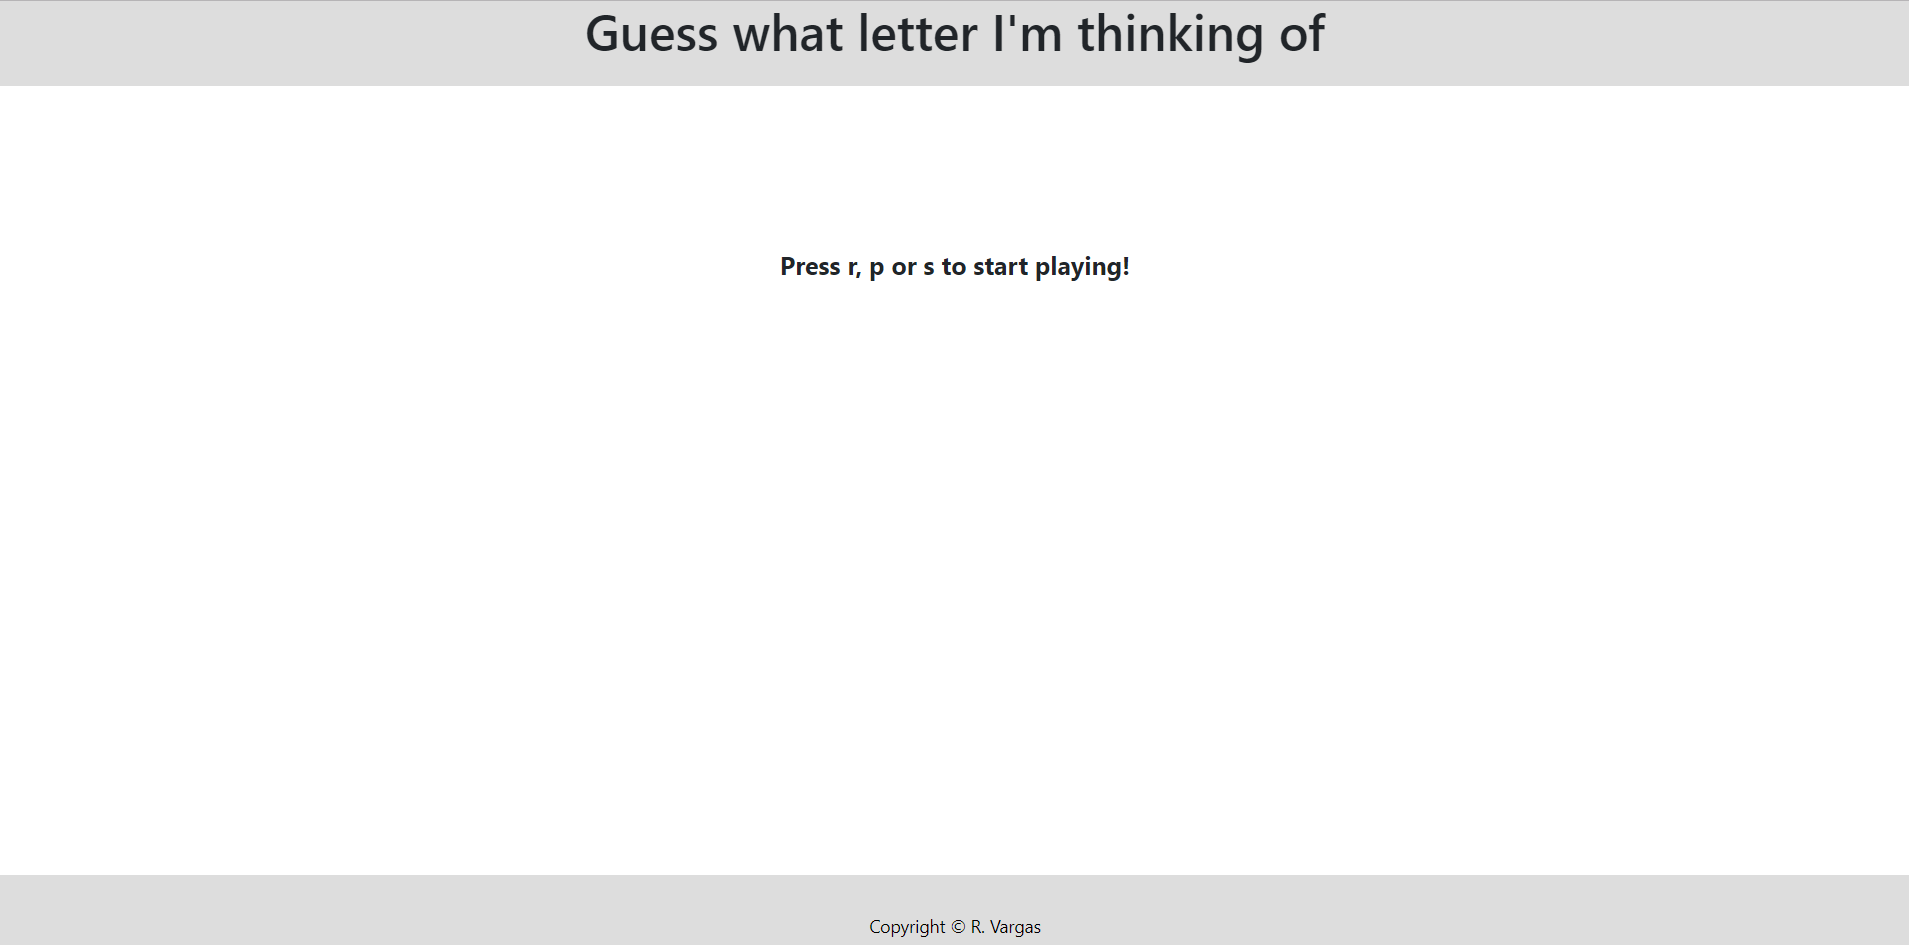
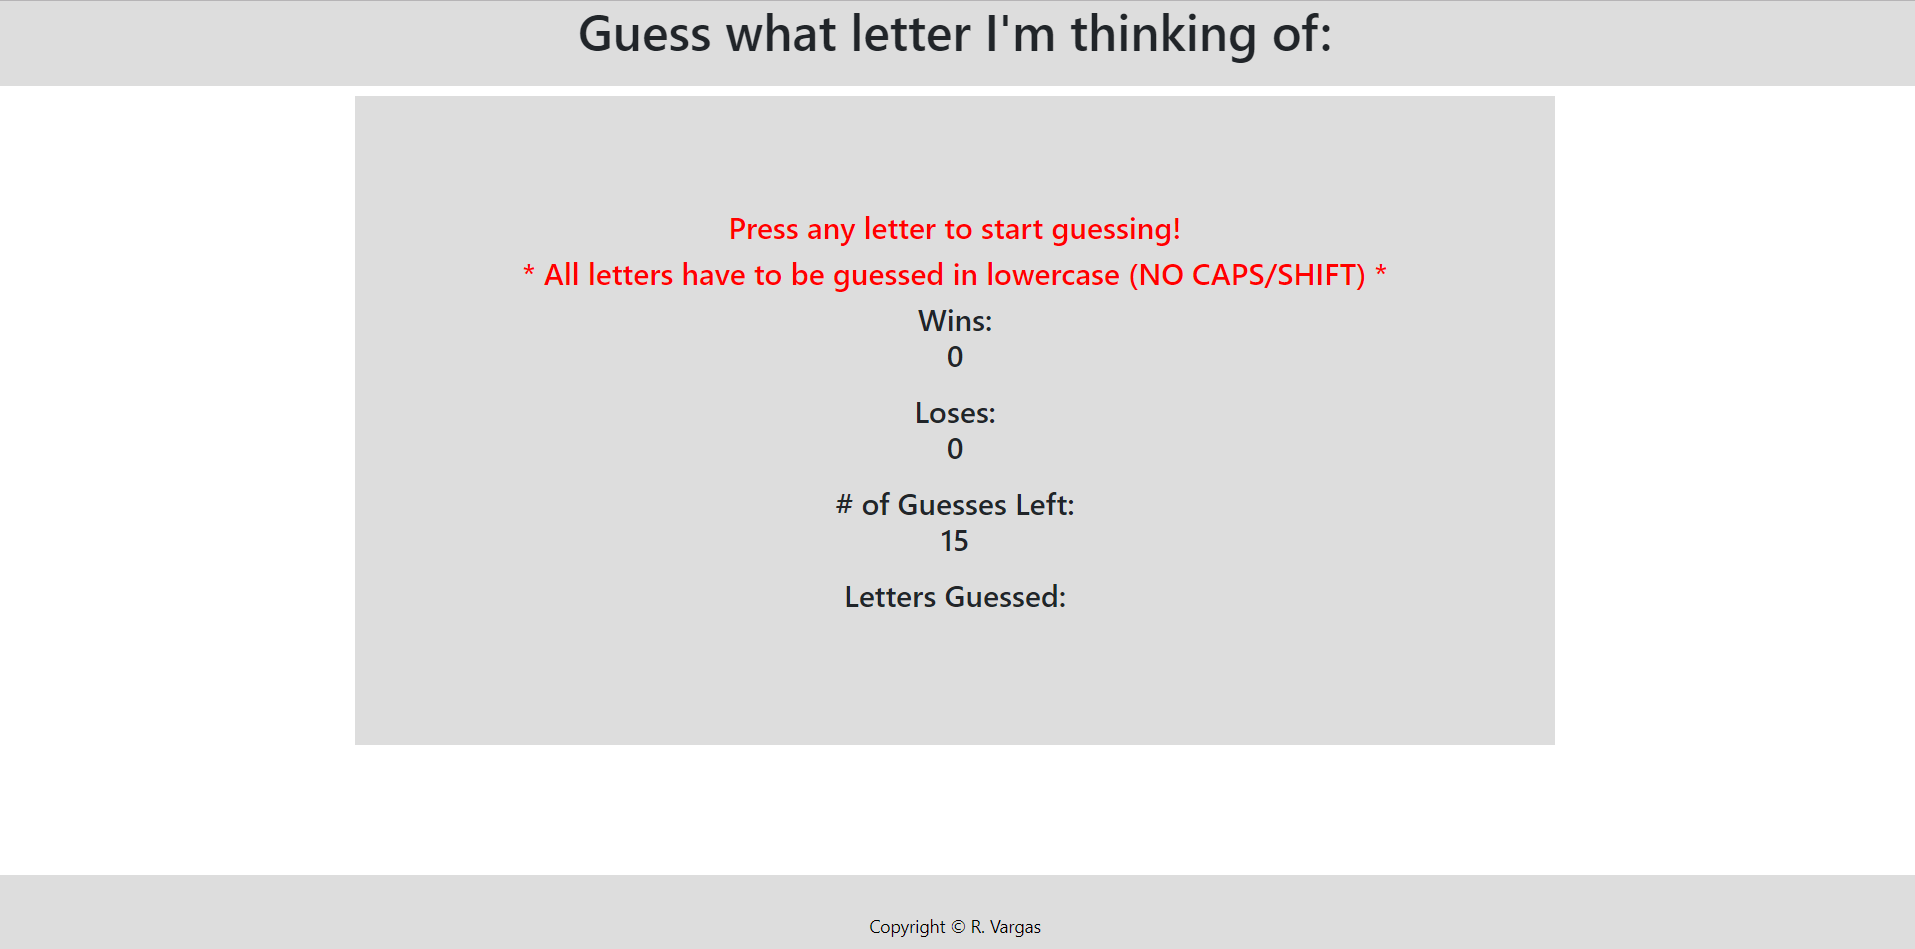
Final Game

diff --git a/index.html b/index.html
@@ -1,54 +1,59 @@
 <!DOCTYPE html>
-<html>
+<html lang="en-us">
 
-    <head>
-        <meta charset="UTF-8">
-        <title>RV-Psychic-Game</title>
-        <link href="assets/css/style.css" rel="stylesheet" type="text/css">
-        <link rel="stylesheet" href="https://stackpath.bootstrapcdn.com/bootstrap/4.1.3/css/bootstrap.min.css" integrity="sha384-MCw98/SFnGE8fJT3GXwEOngsV7Zt27NXFoaoApmYm81iuXoPkFOJwJ8ERdknLPMO" crossorigin="anonymous">
-    </head>
+<head>
+    <meta charset="UTF-8">
+    <title>RV-Psychic-Game</title>
+    <link href="assets/css/style.css" rel="stylesheet" type="text/css">
+    <link rel="stylesheet" href="https://stackpath.bootstrapcdn.com/bootstrap/4.1.3/css/bootstrap.min.css" integrity="sha384-MCw98/SFnGE8fJT3GXwEOngsV7Zt27NXFoaoApmYm81iuXoPkFOJwJ8ERdknLPMO"
+        crossorigin="anonymous">
+</head>
 
-    <body>
-        <!-- Place direction text,
+<body>
+    <!-- Place direction text,
         Need the user to make a choice,
         Record wins, losses and ties on both sides (between user and computer) -->
-        <h1>Guess what letter I'm thinking of:</h1>
+    <h1>Guess what letter I'm thinking of:</h1>
 
-        <div id="main-container" class="container">
+    <div id="main-container" class="container">
 
-            <!-- Rules of the Game-->
+        <!-- Rules of the Game-->
+
+        <div id="instructions" class=instruct>
             <h4>Press any letter to start guessing!</h4>
             <h4>* All letters have to be guessed in lowercase (NO CAPS/SHIFT) *</h4>
-
-            <h4>Wins:
-                <p id="wins"></p>
-            </h4>
-            <h4>Loses:
-                <p id="loses"></p>
-            </h4>
-            <h4># of Guesses Left:
-                <p id="numberOfGuessesLeft"></p>
-            </h4>
-            <h4>Letters Guessed:
-                <p id="lettersAlreadyGuessed"></p>
-            </h4>
-            
         </div>
-        
-        <!-- JavaScript Reference -->
-        <script type="text/javascript" src="assets/javascript/game.js"></script>
 
-        <!-- Footer -->
-        <footer>
-            <div class="container">
-                <div class="row justify-content-md-center">
-                    <div class="col-md-auto">
+        <!-- Record of Game-->
+        <h4>Wins:
+            <p id="wins">#</p>
+        </h4>
+        <h4>Loses:
+            <p id="loses">#</p>
+        </h4>
+        <h4># of Guesses Left:
+            <p id="numberOfGuessesLeft">#</p>
+        </h4>
+        <h4>Letters Guessed:
+            <p id="lettersAlreadyGuessed">#</p>
+        </h4>
+
+    </div>
+
+    <!-- JavaScript Reference -->
+    <script type="text/javascript" src="assets/javascript/game.js"></script>
+
+    <!-- Footer -->
+    <footer>
+        <div class="container">
+            <div class="row justify-content-md-center">
+                <div class="col-md-auto">
                     Copyright © R. Vargas
-                    </div>
                 </div>
             </div>
-        </footer>
-        
-    </body>
+        </div>
+    </footer>
+
+</body>
 
 </html>

diff --git a/assets/javascript/game.js b/assets/javascript/game.js
@@ -1,50 +1,49 @@
 
 // Variable, that houses an array, containing the alphabet.
-var letters = ['a', 'b', 'c', 'd', 'e', 'f', 'g', 'h', 'i', 'j', 'k', 'l', 'm','n', 'o', 'p', 
-'q', 'r', 's', 't', 'u', 'v', 'w', 'x', 'y', 'z'];
+var letters = ['a', 'b', 'c', 'd', 'e', 'f', 'g', 'h', 'i', 'j', 'k', 'l', 'm', 'n', 'o', 'p',
+  'q', 'r', 's', 't', 'u', 'v', 'w', 'x', 'y', 'z'];
 // Variables that record the wins, losses, # of guesses left, and which letter the user chose.
 var wins = 0;
 var loses = 0;
+// wins and loses have to start at zero, if beginning a new game.
 var guessesLeft
-var guessedLetters 
+var guessedLetters
 // Established computer choise, what the user will have to guess.
 var computerChoice
 
 // onkeyup will record any pressed key the user makes.
-document.onkeyup = function(event) {
+document.onkeyup = function (event) {
   var userGuess = event.key;
   if (userGuess === computerChoice) {
-    win();
+    userwin();
     //  Subtracts each guess if the user does not make correct guess.
   } else if (guessesLeft - 1 === 0) {
-    lost();
+    userlost();
   } else {
-    fail(userGuess);
+    userfail(userGuess);
   }
 
   display();
 }
 
-resetGame();
-display();
-
 // Functions that will add onto the wins and losses counter. Will also reset game if numbers run out.
-function win() {
+function userwin() {
   wins++;
   resetGame();
 }
 
-function lost() {
+function userlost() {
   loses++;
   resetGame();
 }
 
-function fail(letter) {
+function userfail(letter) {
   guessesLeft--;
   guessedLetters.push(letter);
 }
 
 function resetGame() {
+  // Number of total guesses left for the user.
   guessesLeft = 15;
   guessedLetters = [];
   computerChoice = letters[Math.floor(Math.random() * letters.length)];
@@ -56,30 +55,15 @@ function display() {
   var losesP = document.getElementById("loses");
   var numberOfGuessesLeft = document.getElementById("numberOfGuessesLeft");
   var letterGuessed = document.getElementById("lettersAlreadyGuessed");
+  // Shows the number of wins/loses on the html page in the p tags.
   winsP.innerHTML = wins;
   losesP.innerHTML = loses;
+  // Displays the number of guesses left onto the html.
   numberOfGuessesLeft.innerHTML = guessesLeft;
+  // Pulls from the alphabet array established.
   letterGuessed.innerHTML = guessedLetters.join(',');
 }
 
-function win() {
-  wins++;
-  resetGame();
-}
-
-function lost() {
-  loses++;
-  resetGame();
-}
-
-function fail(letter) {
-  guessesLeft--;
-  guessedLetters.push(letter);
-}
-
-function resetGame() {
-  // Number of guess left for the user.
-  guessesLeft = 15;
-  guessedLetters = [];
-  computerChoice = letters[Math.floor(Math.random() * letters.length)];
-}
+// Inputed into java file to make game rest and show results after every game, without having to refresh the webpage.
+resetGame();
+display();

diff --git a/assets/css/style.css b/assets/css/style.css
@@ -23,6 +23,10 @@ h1 {
     background: #ddd;
 }
 
+#instructions {
+    color: red
+}
+
 /* My Footer */
 
 footer {
